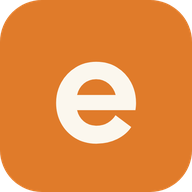
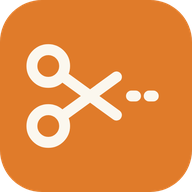
Ícono: tijera con línea punteada
Claude-Session: https://claude.ai/code/session_019cUTMLJJLShp2X98MfT38t

Changed region(s): [[0.125, 0.2188, 0.8438, 0.7812]]

diff --git a/docs/formulario.html b/docs/formulario.html
@@ -14,9 +14,9 @@
 <meta property="og:image:height" content="630">
 <meta property="og:image:alt" content="Editá con IA, sin efectos de más. Herramienta gratis de Nico Paretti.">
 <meta name="twitter:card" content="summary_large_image">
-<link rel="icon" href="favicon.ico" sizes="48x48">
-<link rel="icon" type="image/png" href="img/icono-32.png" sizes="32x32">
-<link rel="apple-touch-icon" href="img/icono-180.png">
+<link rel="icon" href="favicon.ico?v=1795363278" sizes="48x48">
+<link rel="icon" type="image/png" href="img/icono-32.png?v=1795363278" sizes="32x32">
+<link rel="apple-touch-icon" href="img/icono-180.png?v=1795363278">
 <meta name="theme-color" content="#F2EBDD">
 <meta name="robots" content="noindex">
 <link rel="stylesheet" href="estilo.css?v=1795363115">

diff --git a/docs/instalar.html b/docs/instalar.html
@@ -14,9 +14,9 @@
 <meta property="og:image:height" content="630">
 <meta property="og:image:alt" content="Editá con IA, sin efectos de más. Herramienta gratis de Nico Paretti.">
 <meta name="twitter:card" content="summary_large_image">
-<link rel="icon" href="favicon.ico" sizes="48x48">
-<link rel="icon" type="image/png" href="img/icono-32.png" sizes="32x32">
-<link rel="apple-touch-icon" href="img/icono-180.png">
+<link rel="icon" href="favicon.ico?v=1795363278" sizes="48x48">
+<link rel="icon" type="image/png" href="img/icono-32.png?v=1795363278" sizes="32x32">
+<link rel="apple-touch-icon" href="img/icono-180.png?v=1795363278">
 <meta name="theme-color" content="#F2EBDD">
 <meta name="robots" content="noindex">
 <link rel="stylesheet" href="estilo.css?v=1795363115">

diff --git a/docs/index.html b/docs/index.html
@@ -15,9 +15,9 @@
 <meta property="og:image:height" content="630">
 <meta property="og:image:alt" content="Editá con IA, sin efectos de más. Herramienta gratis de Nico Paretti.">
 <meta name="twitter:card" content="summary_large_image">
-<link rel="icon" href="favicon.ico" sizes="48x48">
-<link rel="icon" type="image/png" href="img/icono-32.png" sizes="32x32">
-<link rel="apple-touch-icon" href="img/icono-180.png">
+<link rel="icon" href="favicon.ico?v=1795363278" sizes="48x48">
+<link rel="icon" type="image/png" href="img/icono-32.png?v=1795363278" sizes="32x32">
+<link rel="apple-touch-icon" href="img/icono-180.png?v=1795363278">
 <meta name="theme-color" content="#F2EBDD">
 <link rel="stylesheet" href="estilo.css?v=1795363115">
 </head>
